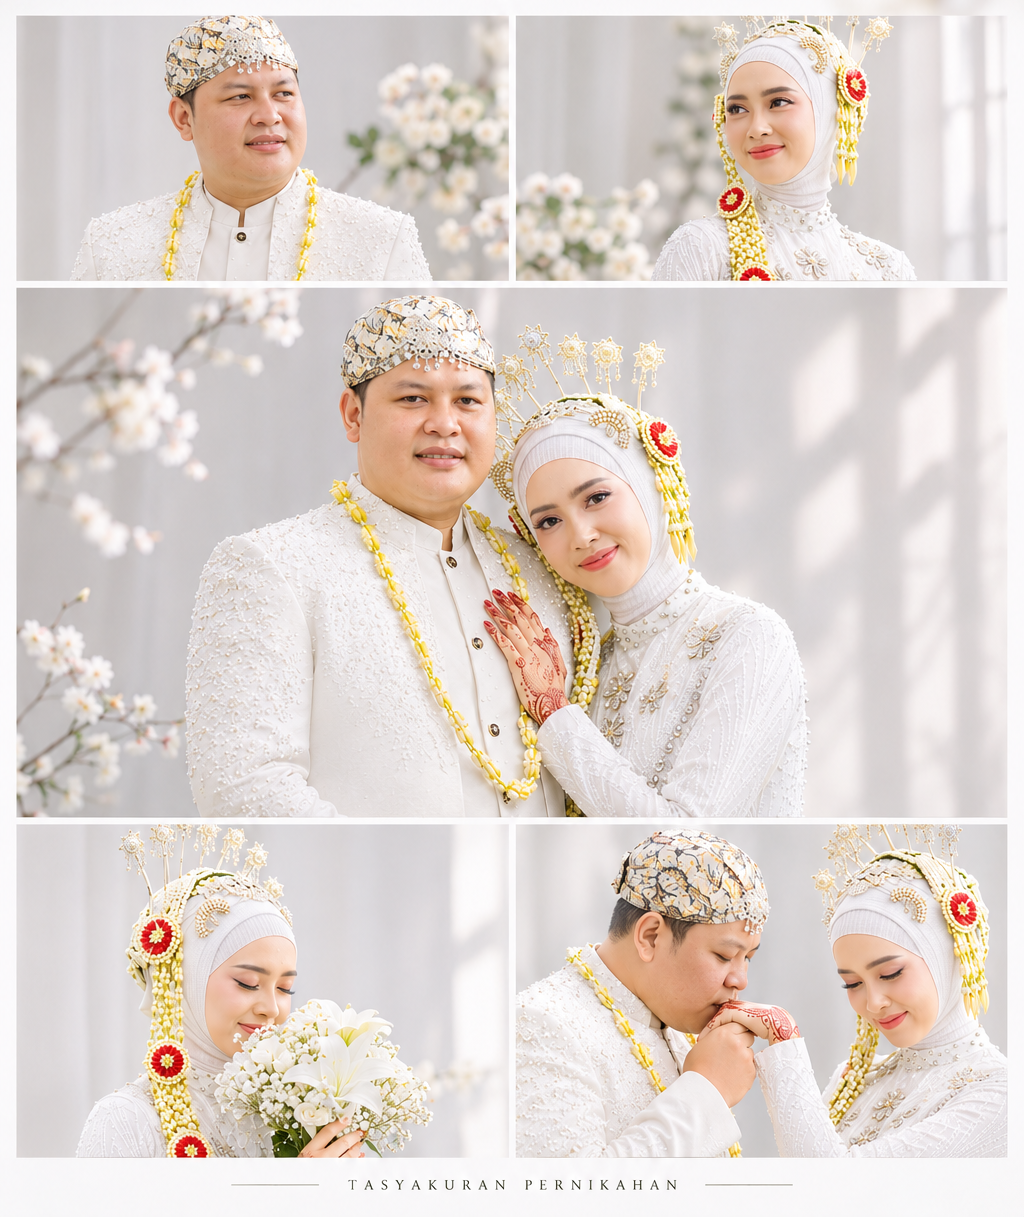
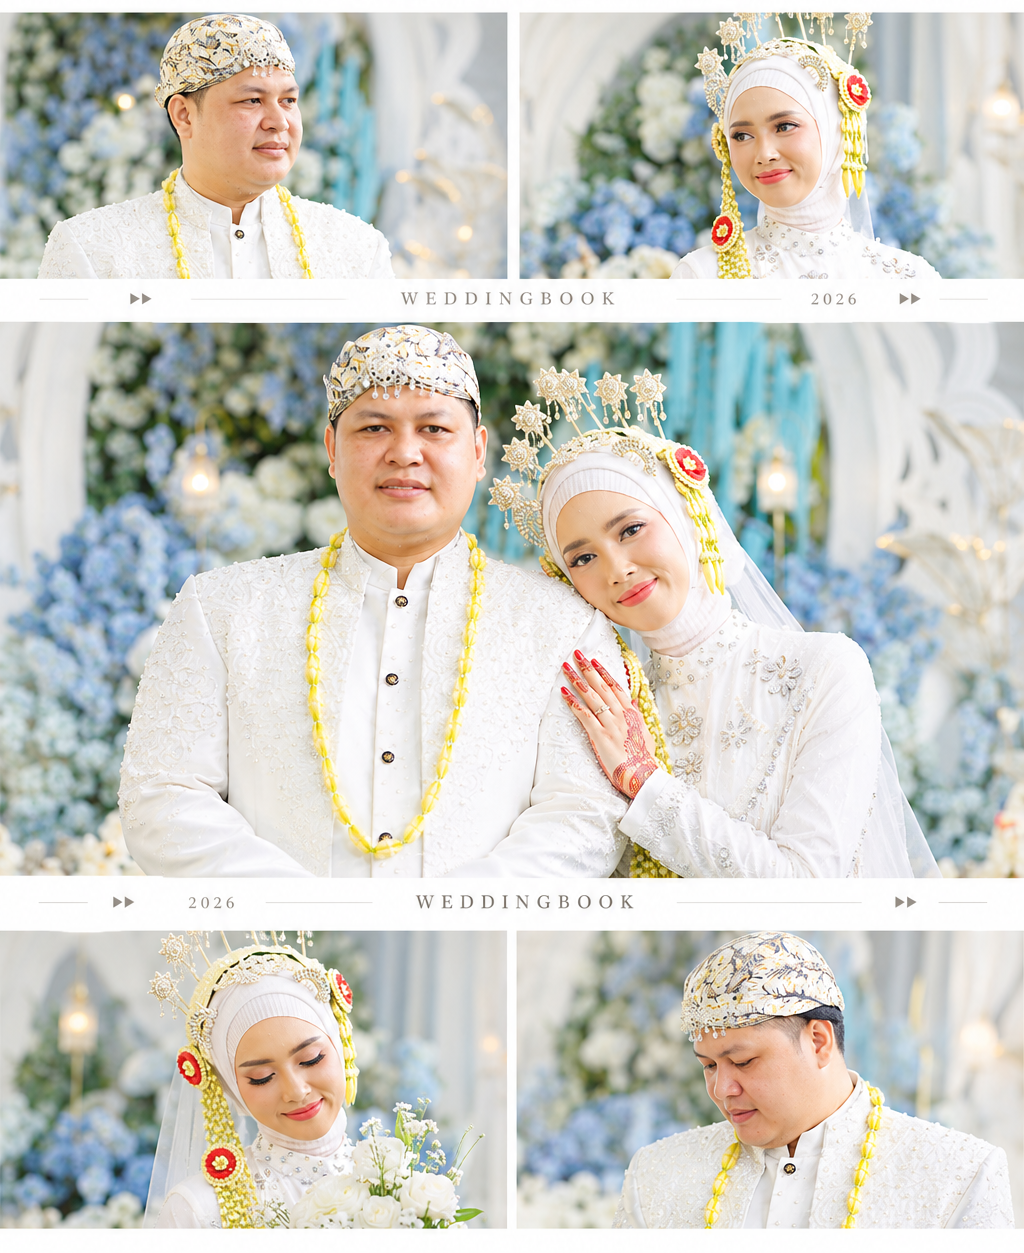
Replace first gallery photo only

diff --git a/index.html b/index.html
@@ -36,7 +36,7 @@
 <div class="section-heading reveal"><span class="eyebrow">OUR LITTLE MOMENTS</span><h2 id="gallery-title">Cerita dalam Bingkai</h2></div>
 <div class="story-carousel" aria-label="Galeri foto pernikahan" tabindex="0">
   <div class="story-track" id="story-track">
-    <figure class="story-slide"><img src="./assets/cerita-bingkai-01.png" alt="Kolase foto pernikahan Dipta dan Frengky" loading="lazy"><figcaption>01 — Tasyakuran Pernikahan</figcaption></figure>
+    <figure class="story-slide"><img src="./assets/cerita-bingkai-01.png?v=20261117-update" alt="Kolase foto pernikahan Dipta dan Frengky" loading="lazy"><figcaption>01 — Tasyakuran Pernikahan</figcaption></figure>
     <figure class="story-slide"><img src="./assets/cerita-bingkai-02.png?v=20261117-new" alt="Dipta dan Frengky memegang buku nikah" loading="lazy"><figcaption>02 — Momen Bahagia</figcaption></figure>
     <figure class="story-slide"><img src="./assets/cerita-bingkai-03.png?v=20261117-new" alt="Dipta dan Frengky berpose dengan buket bunga" loading="lazy"><figcaption>03 — Cerita Kita</figcaption></figure>
   </div>
